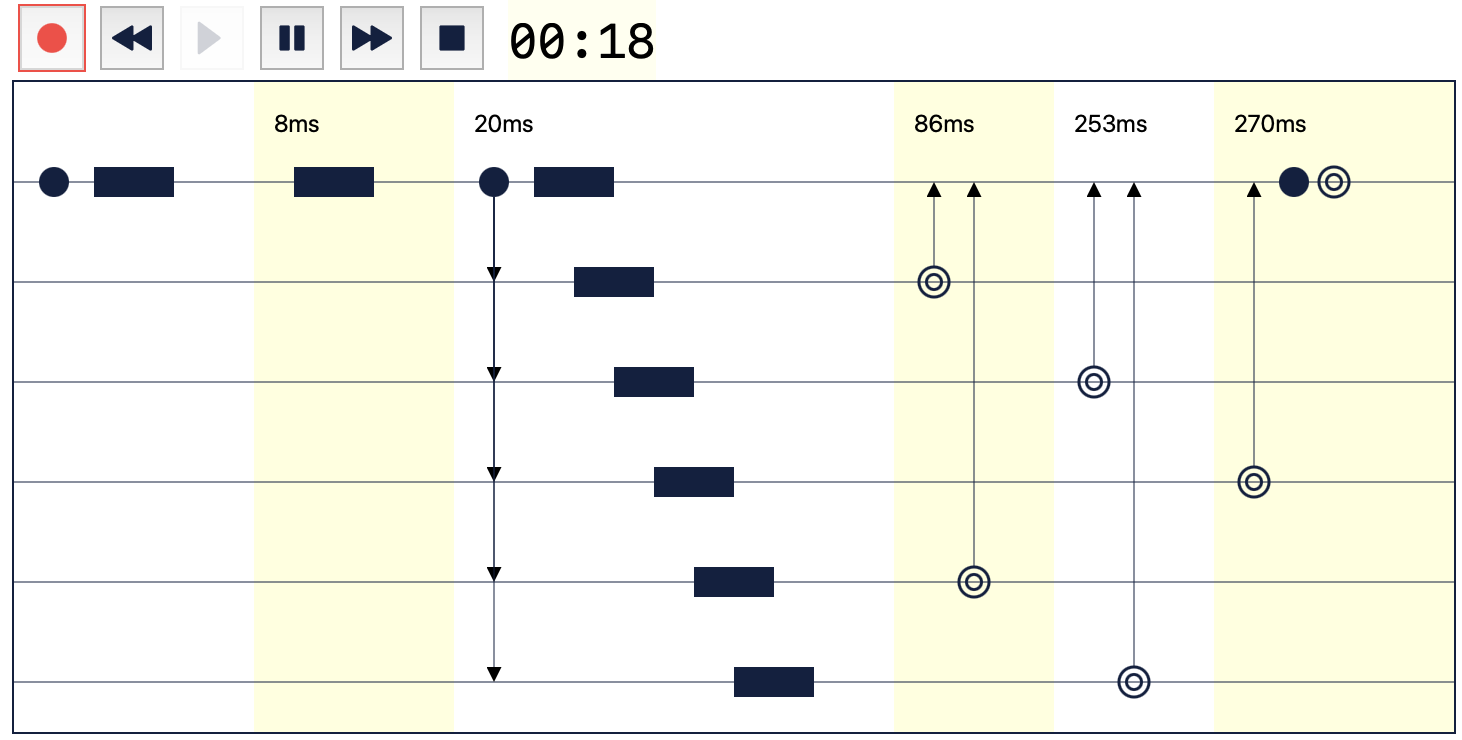
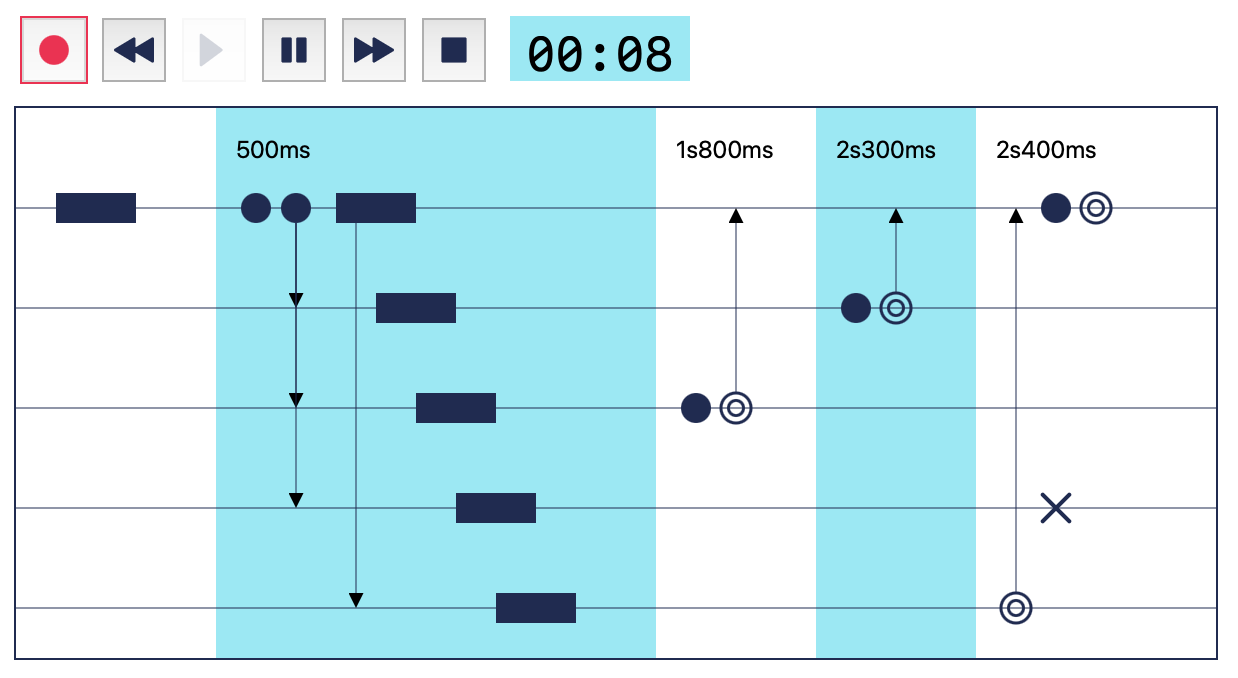
2C0K Begin/end block (#27)
Replace label/jump with repeat/loop, which avoids (a) choosing a name
and (b) making sure that they match without overlap.

diff --git a/lib/thread.js b/lib/thread.js
@@ -130,29 +130,28 @@ const proto = {
         return this;
     },
 
-    // Set a label for a jump.
-    label(name) {
-        console.assert(!Object.hasOwn(this.labels, name));
-        this.labels[name] = [this.ops.length];
-        this.ops.push([nop, (thread, vm) => {
-            console.assert(thread.labels[name].length === 2);
-            if (vm.t > thread.begin) {
-                vm.pc = thread.labels[name][1];
-            }
-        }, nop, { tag: "label", dur: 0, name }]);
-        return this;
+    // Set a return point for a jump by pushing it to the stack.
+    repeat() {
+        this.repeats.push([this.ops.length]);
+        return this.doUndo(
+            nop,
+            (thread, vm) => {
+                if (vm.t > thread.begin) {
+                    vm.pc = thread.repeats.at(-1)[1];
+                }
+            },
+            { tag: "repeat", dur: 0 }
+        );
     },
 
-    // Jump back to a label op given its name.
-    jump(name) {
-        console.assert(this.labels[name].length === 1);
-        this.labels[name].push(this.ops.length);
-        const jump = (thread, vm) => {
-            console.assert(thread.labels[name].length === 2);
-            vm.pc = thread.labels[name][0];
-        };
-        this.ops.push([jump, nop, jump, { tag: "jump", dur: 0, name }]);
-        return this;
+    // Close the loop and jump back to the last begin.
+    loop() {
+        this.repeats.at(-1).push(this.ops.length);
+        return this.doUndo(
+            (thread, vm) => { vm.pc = thread.repeats.at(-1)[0]; },
+            nop,
+            { tag: "loop", dur: 0 }
+        );
     },
 
     // Spawn a new thread.
@@ -293,4 +292,4 @@ const yields = (thread, vm) => { vm.yield(thread); };
 let ID = 0;
 
 // Create a new thread with an empty list of ops.
-export const Thread = () => extend(proto, { id: ID++, ops: [], children: [], labels: {} });
+export const Thread = () => extend(proto, { id: ID++, ops: [], children: [], repeats: [] });

diff --git a/lib/timeline.js b/lib/timeline.js
@@ -145,8 +145,8 @@ const proto = {
                 track.intervals.push([t, t]);
                 item = track.items.appendChild(svg("circle", { cx: track.x, cy: track.y, r: R }));
                 switch (op[Attrs].tag) {
-                    case "jump":
-                        const [j, k] = thread.labels[op[Attrs].name];
+                    case "loop":
+                        const [j, k] = thread.repeats.at(-1);
                         console.assert(j < k);
                         const x = parseFloat([...track.items.children].at(j - k - 1).getAttribute("cx"));
                         track.support.appendChild(svg("rect", {

diff --git a/tests/vm.html b/tests/vm.html
@@ -176,18 +176,18 @@ test("Do, undo, redo (await)", async t => {
     t.equal(vm.valueOf(thread), value, "redo");
 });
 
-test("Do, undo, redo (jump)", t => {
+test("Do, undo, redo (repeat/loop)", t => {
     const vm = VM();
     let count = 0;
     const object = {};
     const thread = vm.spawn().
         delay(17).
         spawn(Thread().
-            label("loop").
+            repeat().
             delay(23).
             instant(() => ++count).
             set(object, "value").
-            jump("loop")
+            loop()
         );
     vm.clock.seek(87);
     t.equal(object.value, 3, "value after 3 iterations");

diff --git a/tests/thread.html b/tests/thread.html
@@ -119,14 +119,14 @@ test("event(target, type)", t => {
     t.equal(vm.valueOf(thread), event, "event value");
 });
 
-test("label(name) and jump(name)", t => {
+test("repeat() and loop()", t => {
     const vm = VM();
     const thread = vm.spawnAt(17).
         instant(K(0)).
-        label("loop").
+        repeat().
         delay(23).
         instant(x => x + 1).
-        jump("loop");
+        loop();
     vm.clock.seek(64);
     t.equal(vm.valueOf(thread), 2, "value after 2 iterations");
     vm.clock.seek(87);

diff --git a/examples/counter.html b/examples/counter.html
@@ -21,12 +21,12 @@ const vm = VM().start();
 
 vm.spawn().
     constant(0).
-    label("loop").
+    repeat().
     set(span, "textContent").
     spawn(Thread().event(button, "click")).
     join(false).
     instant(x => x + 1).
-    jump("loop");
+    loop();
 
 // ----8<--------8<--------8<--------8<--------8<--------8<--------8<----
 

diff --git a/tests/timeline.html b/tests/timeline.html
@@ -55,10 +55,10 @@ test("Show jump", t => {
 
     const thread = vm.spawnAt(17).
         instant(K(0)).
-        label("loop").
+        repeat().
         delay(23).
         instant(x => x + 1).
-        jump("loop");
+        loop();
 
     vm.clock.seek(41);
     const track = timeline.element.querySelector("g.track");

diff --git a/README.md b/README.md
@@ -21,12 +21,12 @@ const span = document.querySelector("span");
 
 VM().start().spawn().
     constant(0).
-    label("loop").
+    repeat().
     set(span, "textContent").
     spawn(Thread().event(button, "click")).
     join(false).
     instant(x => x + 1).
-    jump("loop");
+    loop();
 ```
 
 A new virtual machine is created with `VM()`. The VM has a _clock_ and a
@@ -41,25 +41,26 @@ in the interval between the last and the current update time.
 top-level thread to which instructions can be added.
 
 This main thread starts by instantly producing an initial value with
-`constant(0)`. It then sets up a label which will be the target of a jump
-later. `set(span, "textContent")` sets the text content of the span element to
-the current thread value, which is 0. Then a new thread (created with
-`Thread()`) is spawned. This child thread has only one instruction: waiting for
-a single click event from the button element. The two threads run concurrently,
-so while the child thread waits for an event, the parent thread continues
-running and reaches the `join(false)` instruction. This pauses the thread until
-the thread that it spawned ends; the `false` flag means that the value that
-that thread ends with will be discarded. At this point, both threads are
-suspended and execution stops, even though the clock is still running.
+`constant(0)`. It then marks the start of a loop with `repeat()`, which will be
+matched by a `loop()` later. `set(span, "textContent")` sets the text content
+of the span element to the current thread value, which is 0. Then a new thread
+(created with `Thread()`) is spawned. This child thread has only one
+instruction: waiting for a single click event from the button element. The two
+threads run concurrently, so while the child thread waits for an event, the
+parent thread continues running and reaches the `join(false)` instruction.
+This pauses the thread until the thread that it spawned ends; the `false` flag
+means that the value that that thread ends with will be discarded. At this
+point, both threads are suspended and execution is paused, even though the
+clock is still running.
 
 When the user clicks on the button, the child thread can continue executing,
 and reaches the end of its list of instruction; it therefore ends with the
 event object as its value. The parent thread itself can then resume execution,
 and produces a new value instantly by applying the function `x => x + 1` to its
 current value (0), producing the new thread value of 1. Executing the next
-instruction jumps to the previously set label (named `loop`) and continues from
-that point, so the text content of the span is updated to the current value of
-the thread (_i.e._, it goes from 0 to 1), and a new child thread is spawned to
+instruction jumps back to the previous `repeat()` and continues from that
+point, so the text content of the span is updated to the current value of the
+thread (_i.e._, it goes from 0 to 1), and a new child thread is spawned to
 listen to another button click.
 
 The effect of this program is to increment a counter every time a button is
